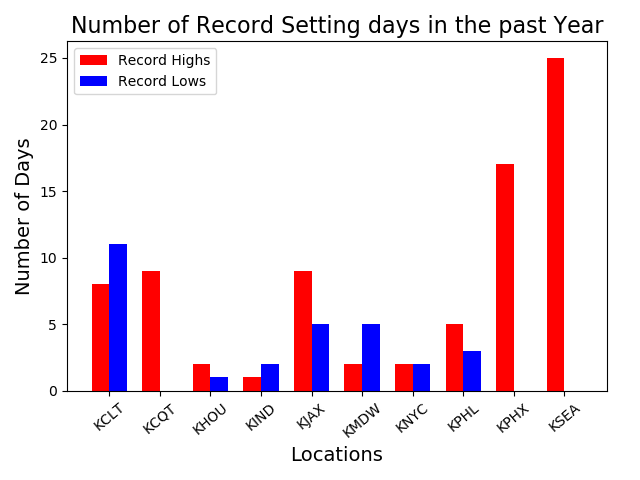
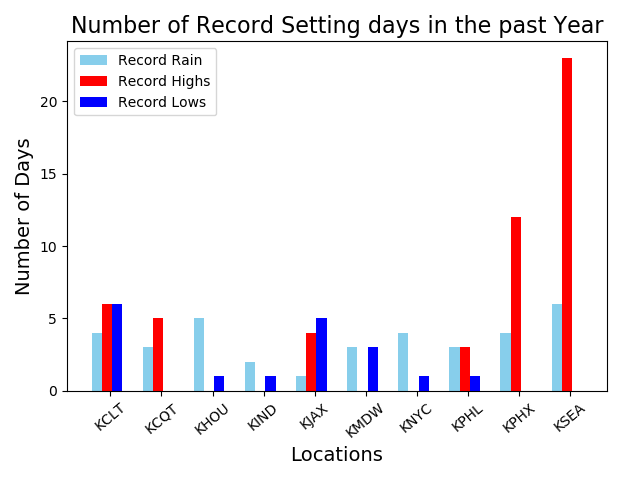
added record rainfall to the records graph

diff --git a/exploratory.py b/exploratory.py
@@ -183,24 +183,30 @@ class weather_examiner(object):
 
         plt.show()
 
-    def graph_records(self, save=False, years=5):
+    def graph_records(self, save=False):
         hot_records = []
         cold_records = []
+        rain_records = []
         for place in self.locs:
             df = self.load_and_transform(place)
-            c_mask = ((df['record_min_temp_year'] >= df.date.dt.year - years) |
+            c_mask = ((df['record_min_temp_year'] >= df.date.dt.year) |
                       (df['record_min_temp'] == df['actual_min_temp']))
-            h_mask = ((df['record_max_temp_year'] >= df.date.dt.year - years) |
+            h_mask = ((df['record_max_temp_year'] >= df.date.dt.year) |
                       (df['record_max_temp'] == df['actual_max_temp']))
+            r_mask = ((df['record_precipitation'] == df['actual_precipitation']) &
+                      (df['record_precipitation'] != 0))
             hot_records.append(df[h_mask].record_min_temp.count())
             cold_records.append(df[c_mask].record_max_temp.count())
+            rain_records.append(df[r_mask].record_precipitation.count())
         ind = np.arange(10)
-        width = .35
+        width = .2
+        plt.bar(ind-width, rain_records, width=width, label='Record Rain',
+                color='skyblue')
         plt.bar(ind, hot_records, width=width, label='Record Highs',
                 color='red')
         plt.bar(ind+width, cold_records, width=width, label='Record Lows',
                 color='blue')
-        plt.xticks(ind + width / 2, self.locs, fontsize=10, rotation=40)
+        plt.xticks(ind + width / 3, self.locs, fontsize=10, rotation=40)
         plt.ylabel('Number of Days', fontsize=14)
         plt.xlabel('Locations', fontsize=14)
         plt.title(f'Number of Record Setting days in the past Year',
@@ -237,8 +243,8 @@ if __name__ == "__main__":
     weather_ex = weather_examiner()
     # Bools to control which graphs are produced and if they are saved
     make_temp_graphs = False
-    graph_rain = True
-    graph_record = False
+    graph_rain = False
+    graph_record = True
     graph_consecutive = False
     save = True
 
@@ -250,7 +256,7 @@ if __name__ == "__main__":
         weather_ex.graph_rainfall(save=save)
 
     if graph_record:
-        weather_ex.graph_records(save=save, years=1)
+        weather_ex.graph_records(save=save)
 
     if graph_consecutive:
         weather_ex.graph_longest_drought(save)
